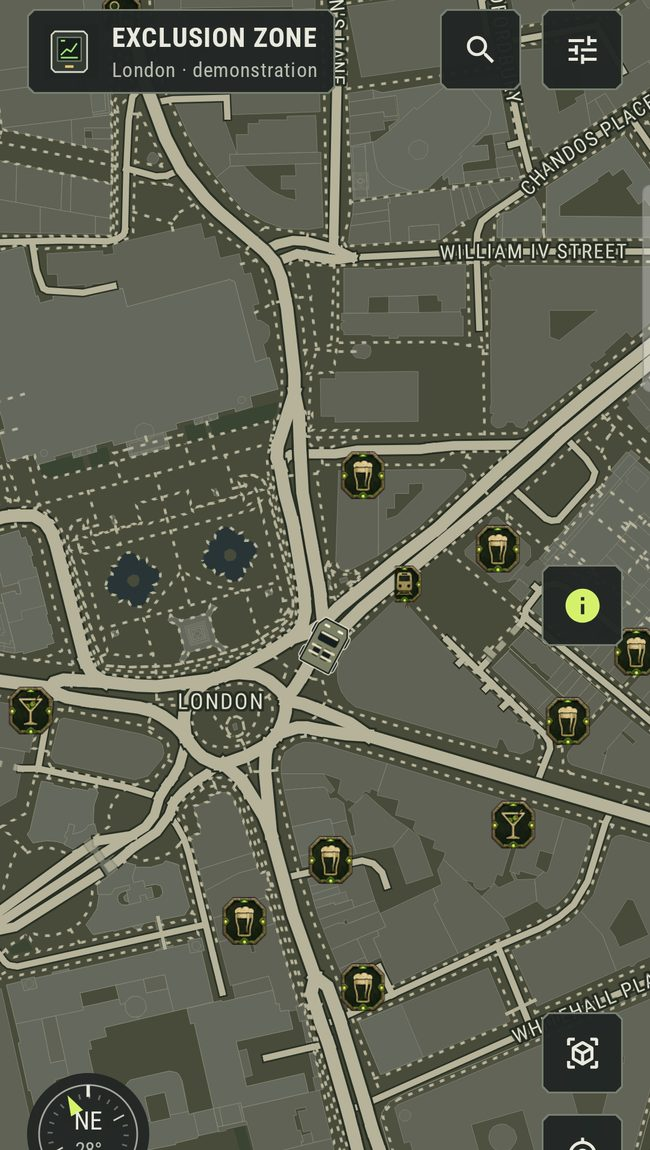
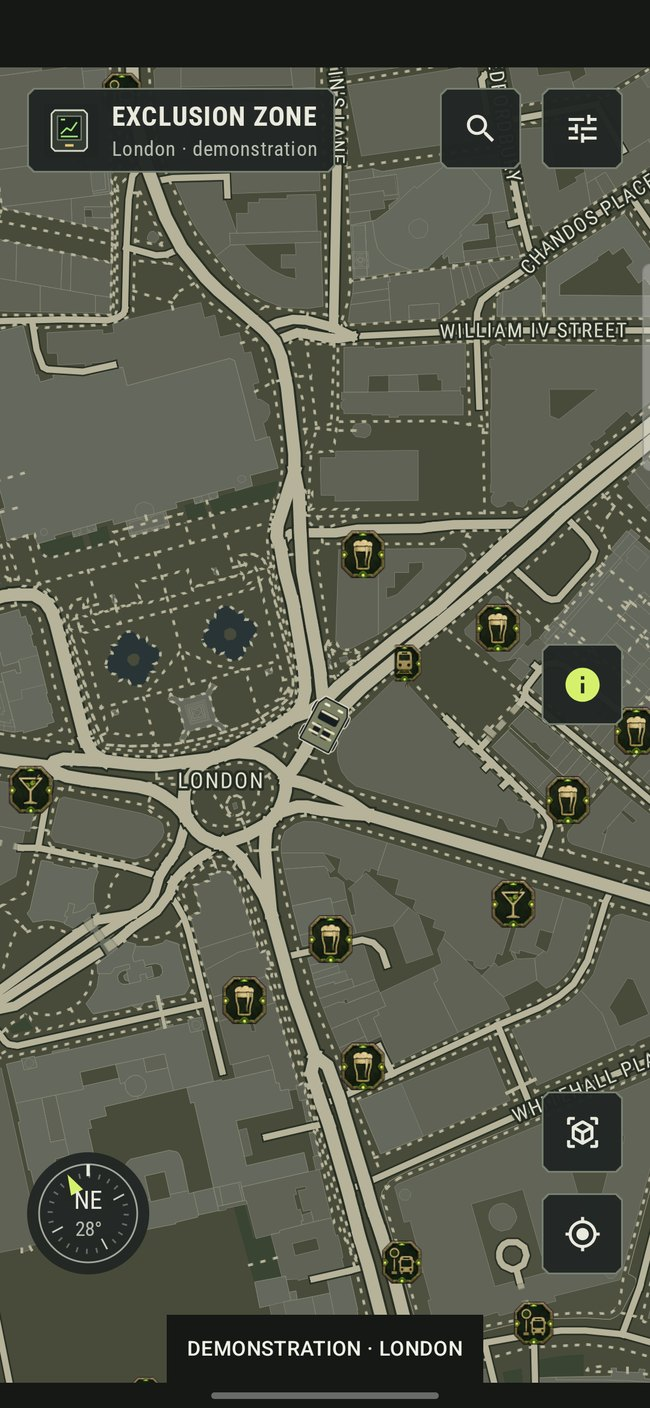
Show full landing screenshots without cropping

diff --git a/docs/index.html b/docs/index.html
@@ -9,7 +9,7 @@
     <link rel="icon" href="images/waypoint-icon.png" type="image/png" />
     <link rel="preload" href="fonts/barlow_condensed_bold_site.woff2" as="font" type="font/woff2" crossorigin />
     <link rel="preload" href="images/landing/old-west-heath-phone.jpg" as="image" fetchpriority="high" />
-    <link rel="stylesheet" href="site.css?v=20261106-r6" />
+    <link rel="stylesheet" href="site.css?v=20261107-r8" />
     <script>document.documentElement.className+=' js';setTimeout(function(){window.__wp||(document.documentElement.className=document.documentElement.className.replace(' js',''))},3000)</script>
     <script src="site.js?v=20261106-r6" defer></script>
   </head>
@@ -95,27 +95,27 @@
           <li class="stop" data-stop>
             <span class="dot stop-dot" aria-hidden="true"><img src="assets/landing/markers/old_west.png" width="64" height="64" alt="" loading="lazy" decoding="async" /></span>
             <div class="stop-copy"><h3>Old West</h3><p class="game">Red Dead Redemption 2 inspired</p><p>Parchment streets, hand-lettered labels and western controls, with woods and meadows drawn in ink and stipple.</p></div>
-            <figure class="stop-shot"><span class="s26"><span class="s26-screen"><img class="s26-bg" src="images/landing/old-west-heath-phone.jpg" alt="" aria-hidden="true" width="650" height="1150" loading="lazy" decoding="async" /><span class="s26-bar" aria-hidden="true"><b>10:24</b><span class="s26-ic"><svg viewBox="0 0 40 14"><path d="M1 12h3V8H1zM6 12h3V6H6zM11 12h3V3h-3zM16 12h3V1h-3z"/><path d="M25 5a8 8 0 0 1 11 0M27.5 8a4.6 4.6 0 0 1 6 0"/></svg><i></i></span></span><span class="s26-box"><img class="s26-app" src="images/landing/old-west-heath-phone.jpg" width="650" height="1150" alt="Waypoint Old West on a phone in light mode, with woodland, tree symbols and a pond beside the road on Hampstead Heath." loading="lazy" decoding="async" /></span><span class="s26-pill" aria-hidden="true"></span></span></span></figure>
+            <figure class="stop-shot"><span class="s26"><span class="s26-screen"><img class="s26-bg" src="images/landing/old-west-heath-phone.jpg" alt="" aria-hidden="true" width="650" height="1408" loading="lazy" decoding="async" /><span class="s26-bar" aria-hidden="true"><b>10:24</b><span class="s26-ic"><svg viewBox="0 0 40 14"><path d="M1 12h3V8H1zM6 12h3V6H6zM11 12h3V3h-3zM16 12h3V1h-3z"/><path d="M25 5a8 8 0 0 1 11 0M27.5 8a4.6 4.6 0 0 1 6 0"/></svg><i></i></span></span><span class="s26-box"><img class="s26-app" src="images/landing/old-west-heath-phone.jpg" width="650" height="1408" alt="Waypoint Old West on a phone in light mode, with woodland, tree symbols and a pond beside the road on Hampstead Heath." loading="lazy" decoding="async" /></span><span class="s26-pill" aria-hidden="true"></span></span></span></figure>
           </li>
           <li class="stop" data-stop>
             <span class="dot stop-dot" aria-hidden="true"><img src="assets/landing/markers/night_city.png" width="64" height="64" alt="" loading="lazy" decoding="async" /></span>
             <div class="stop-copy"><h3>Night City</h3><p class="game">Cyberpunk 2077 inspired</p><p>Red city blocks, cyan routes and controls that stay sharp at speed. Find location, saved places and recenter are one tap away.</p></div>
-            <figure class="stop-shot"><span class="s26"><span class="s26-screen"><img class="s26-bg" src="images/landing/night-city-phone.jpg" alt="" aria-hidden="true" width="650" height="1150" loading="lazy" decoding="async" /><span class="s26-bar" aria-hidden="true"><b>10:24</b><span class="s26-ic"><svg viewBox="0 0 40 14"><path d="M1 12h3V8H1zM6 12h3V6H6zM11 12h3V3h-3zM16 12h3V1h-3z"/><path d="M25 5a8 8 0 0 1 11 0M27.5 8a4.6 4.6 0 0 1 6 0"/></svg><i></i></span></span><span class="s26-box"><img class="s26-app" src="images/landing/night-city-phone.jpg" width="650" height="1150" alt="Waypoint Night City on a phone, with red city blocks and cyan roads around Trafalgar Square." loading="lazy" decoding="async" /></span><span class="s26-pill" aria-hidden="true"></span></span></span></figure>
+            <figure class="stop-shot"><span class="s26"><span class="s26-screen"><img class="s26-bg" src="images/landing/night-city-phone.jpg" alt="" aria-hidden="true" width="650" height="1408" loading="lazy" decoding="async" /><span class="s26-bar" aria-hidden="true"><b>10:24</b><span class="s26-ic"><svg viewBox="0 0 40 14"><path d="M1 12h3V8H1zM6 12h3V6H6zM11 12h3V3h-3zM16 12h3V1h-3z"/><path d="M25 5a8 8 0 0 1 11 0M27.5 8a4.6 4.6 0 0 1 6 0"/></svg><i></i></span></span><span class="s26-box"><img class="s26-app" src="images/landing/night-city-phone.jpg" width="650" height="1408" alt="Waypoint Night City on a phone, with red city blocks and cyan roads around Trafalgar Square." loading="lazy" decoding="async" /></span><span class="s26-pill" aria-hidden="true"></span></span></span></figure>
           </li>
           <li class="stop" data-stop>
             <span class="dot stop-dot" aria-hidden="true"><img src="assets/landing/markers/hyrule.png" width="64" height="64" alt="" loading="lazy" decoding="async" /></span>
             <div class="stop-copy"><h3>Sheikah Slate</h3><p class="game">The Legend of Zelda: Breath of the Wild inspired</p><p>Gold roads over a weathered survey base, with blue and gold exploration controls around the same real streets.</p></div>
-            <figure class="stop-shot"><span class="s26"><span class="s26-screen"><img class="s26-bg" src="images/landing/sheikah-phone.jpg" alt="" aria-hidden="true" width="650" height="1150" loading="lazy" decoding="async" /><span class="s26-bar" aria-hidden="true"><b>10:24</b><span class="s26-ic"><svg viewBox="0 0 40 14"><path d="M1 12h3V8H1zM6 12h3V6H6zM11 12h3V3h-3zM16 12h3V1h-3z"/><path d="M25 5a8 8 0 0 1 11 0M27.5 8a4.6 4.6 0 0 1 6 0"/></svg><i></i></span></span><span class="s26-box"><img class="s26-app" src="images/landing/sheikah-phone.jpg" width="650" height="1150" alt="Waypoint Sheikah Slate on a phone, with gold roads over a weathered survey map of central London." loading="lazy" decoding="async" /></span><span class="s26-pill" aria-hidden="true"></span></span></span></figure>
+            <figure class="stop-shot"><span class="s26"><span class="s26-screen"><img class="s26-bg" src="images/landing/sheikah-phone.jpg" alt="" aria-hidden="true" width="650" height="1408" loading="lazy" decoding="async" /><span class="s26-bar" aria-hidden="true"><b>10:24</b><span class="s26-ic"><svg viewBox="0 0 40 14"><path d="M1 12h3V8H1zM6 12h3V6H6zM11 12h3V3h-3zM16 12h3V1h-3z"/><path d="M25 5a8 8 0 0 1 11 0M27.5 8a4.6 4.6 0 0 1 6 0"/></svg><i></i></span></span><span class="s26-box"><img class="s26-app" src="images/landing/sheikah-phone.jpg" width="650" height="1408" alt="Waypoint Sheikah Slate on a phone, with gold roads over a weathered survey map of central London." loading="lazy" decoding="async" /></span><span class="s26-pill" aria-hidden="true"></span></span></span></figure>
           </li>
           <li class="stop" data-stop>
             <span class="dot stop-dot" aria-hidden="true"><img src="assets/landing/markers/pixel.png" width="64" height="64" alt="" loading="lazy" decoding="async" /></span>
             <div class="stop-copy"><h3>Pixel World</h3><p class="game">Minecraft inspired</p><p>Block-style roads, grass and water in pixel art. Search, routes and turn guidance work exactly the same.</p></div>
-            <figure class="stop-shot"><span class="s26"><span class="s26-screen"><img class="s26-bg" src="images/landing/pixel-phone.jpg" alt="" aria-hidden="true" width="650" height="1150" loading="lazy" decoding="async" /><span class="s26-bar" aria-hidden="true"><b>10:24</b><span class="s26-ic"><svg viewBox="0 0 40 14"><path d="M1 12h3V8H1zM6 12h3V6H6zM11 12h3V3h-3zM16 12h3V1h-3z"/><path d="M25 5a8 8 0 0 1 11 0M27.5 8a4.6 4.6 0 0 1 6 0"/></svg><i></i></span></span><span class="s26-box"><img class="s26-app" src="images/landing/pixel-phone.jpg" width="650" height="1150" alt="Waypoint Pixel World on a phone, with green blocks, brown paths and a pixel pond in Trafalgar Square." loading="lazy" decoding="async" /></span><span class="s26-pill" aria-hidden="true"></span></span></span></figure>
+            <figure class="stop-shot"><span class="s26"><span class="s26-screen"><img class="s26-bg" src="images/landing/pixel-phone.jpg" alt="" aria-hidden="true" width="650" height="1408" loading="lazy" decoding="async" /><span class="s26-bar" aria-hidden="true"><b>10:24</b><span class="s26-ic"><svg viewBox="0 0 40 14"><path d="M1 12h3V8H1zM6 12h3V6H6zM11 12h3V3h-3zM16 12h3V1h-3z"/><path d="M25 5a8 8 0 0 1 11 0M27.5 8a4.6 4.6 0 0 1 6 0"/></svg><i></i></span></span><span class="s26-box"><img class="s26-app" src="images/landing/pixel-phone.jpg" width="650" height="1408" alt="Waypoint Pixel World on a phone, with green blocks, brown paths and a pixel pond in Trafalgar Square." loading="lazy" decoding="async" /></span><span class="s26-pill" aria-hidden="true"></span></span></span></figure>
           </li>
           <li class="stop" data-stop>
             <span class="dot stop-dot" aria-hidden="true"><img src="assets/landing/markers/stalker.png" width="64" height="64" alt="" loading="lazy" decoding="async" /></span>
             <div class="stop-copy"><h3>Exclusion Zone</h3><p class="game">S.T.A.L.K.E.R.: Shadow of Chernobyl inspired</p><p>Added in 2.0 after a community request. Muted survey greens and amber details, with a route line that never gets lost.</p></div>
-            <figure class="stop-shot"><span class="s26"><span class="s26-screen"><img class="s26-bg" src="images/landing/exclusion-zone-phone.jpg" alt="" aria-hidden="true" width="650" height="1150" loading="lazy" decoding="async" /><span class="s26-bar" aria-hidden="true"><b>10:24</b><span class="s26-ic"><svg viewBox="0 0 40 14"><path d="M1 12h3V8H1zM6 12h3V6H6zM11 12h3V3h-3zM16 12h3V1h-3z"/><path d="M25 5a8 8 0 0 1 11 0M27.5 8a4.6 4.6 0 0 1 6 0"/></svg><i></i></span></span><span class="s26-box"><img class="s26-app" src="images/landing/exclusion-zone-phone.jpg" width="650" height="1150" alt="Waypoint Exclusion Zone on a phone, with muted green-grey survey streets and amber place symbols." loading="lazy" decoding="async" /></span><span class="s26-pill" aria-hidden="true"></span></span></span></figure>
+            <figure class="stop-shot"><span class="s26"><span class="s26-screen"><img class="s26-bg" src="images/landing/exclusion-zone-phone.jpg" alt="" aria-hidden="true" width="650" height="1408" loading="lazy" decoding="async" /><span class="s26-bar" aria-hidden="true"><b>10:24</b><span class="s26-ic"><svg viewBox="0 0 40 14"><path d="M1 12h3V8H1zM6 12h3V6H6zM11 12h3V3h-3zM16 12h3V1h-3z"/><path d="M25 5a8 8 0 0 1 11 0M27.5 8a4.6 4.6 0 0 1 6 0"/></svg><i></i></span></span><span class="s26-box"><img class="s26-app" src="images/landing/exclusion-zone-phone.jpg" width="650" height="1408" alt="Waypoint Exclusion Zone on a phone, with muted green-grey survey streets and amber place symbols." loading="lazy" decoding="async" /></span><span class="s26-pill" aria-hidden="true"></span></span></span></figure>
           </li>
           </ol>
         </div>

diff --git a/docs/site.css b/docs/site.css
@@ -487,3 +487,15 @@ html:not(.js) .dn-hint{display:none}
   .js .stop-copy,.js .stop-shot,.js .ms-body{opacity:1;translate:0 0;clip-path:none}
   .js .stop-dot{scale:1}.run-car{display:none}
 }
+
+/* Phone captures show the whole screen: no crop, no zoom, no faded edges, no blurred filler. */
+.s26-screen .s26-bg{display:none}
+.s26-box{top:0;height:100%;-webkit-mask-image:none;mask-image:none}
+.s26-screen .s26-app{scale:1;object-fit:cover;object-position:50% 0}
+
+/* The car capture is shown whole and unshaded; its callouts sit beneath it instead of over the interface. */
+.car-shot img{transform:none}
+.car-shot::after{display:none}
+.car-tags{position:static;display:flex;flex-wrap:wrap;gap:.5rem;padding:.9rem 0 0}
+.tag{position:static;opacity:1!important}.tag i{display:none}
+.tag b{position:static;display:block;translate:none!important;animation:none;font-size:.9rem}
